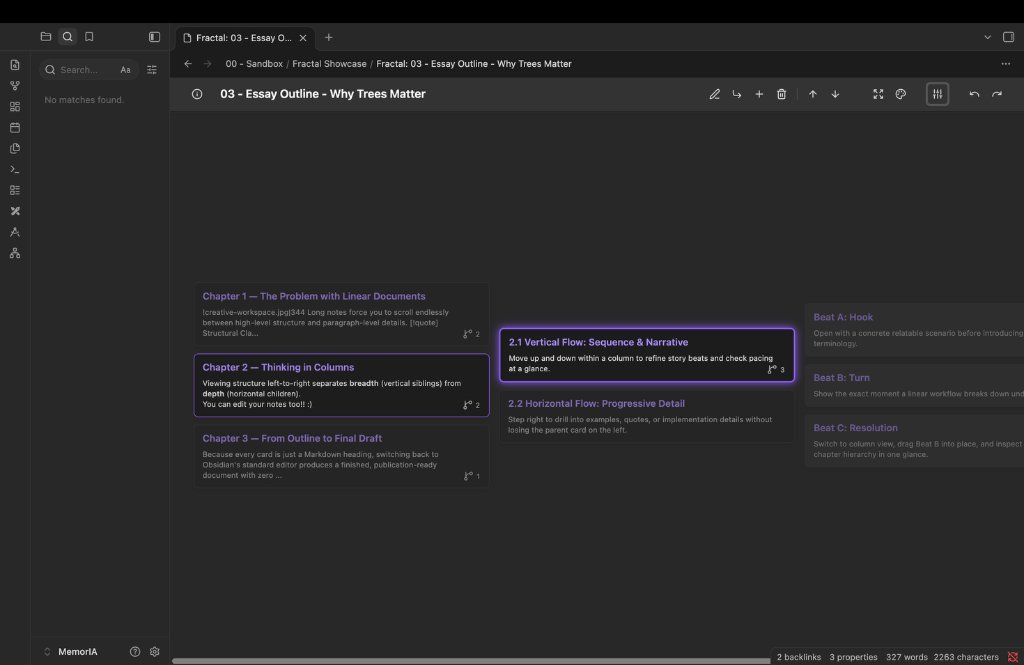
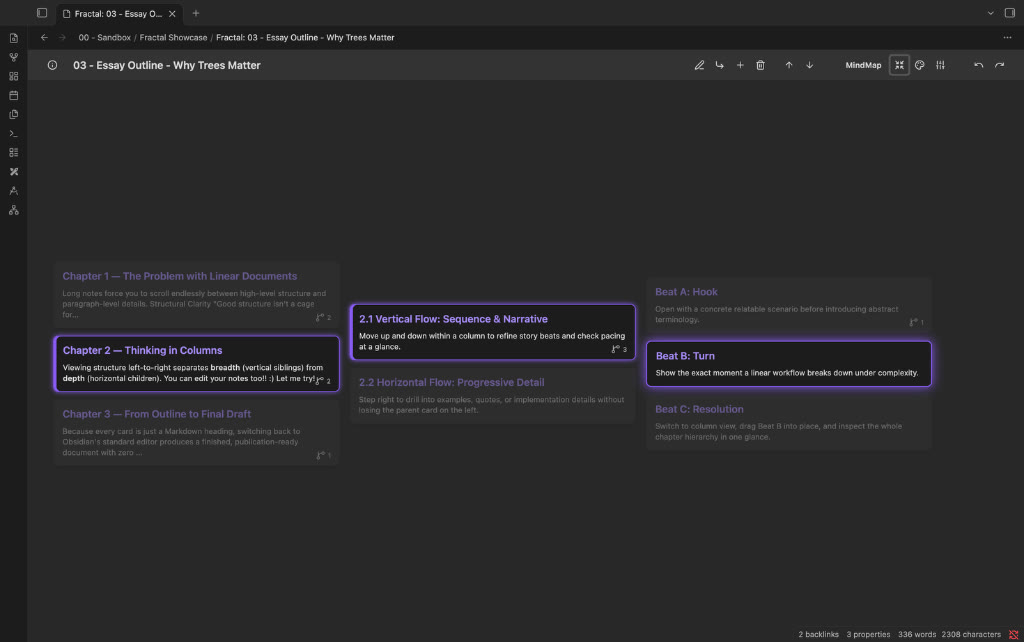
docs: curate README showcase gallery for Mind-Map, themes, and custom mode

diff --git a/README.md b/README.md
@@ -7,7 +7,7 @@
 
 **Fractal** lets you visualize and edit standard Markdown notes in a **column-based card tree layout** (inspired by Gingko) or a full **Mind-Map view**, mapped directly to your note's Markdown heading hierarchy (`#` through `######`) without modifying your underlying file format.
 
-![Fractal column tree navigation](https://raw.githubusercontent.com/ide-ale/obsidian-fractal/main/docs/media/fractal-columns-navigation.jpg)
+![Fractal column tree navigation in Obsidian Default theme](https://raw.githubusercontent.com/ide-ale/obsidian-fractal/main/docs/media/fractal-columns-navigation.jpg)
 
 ---
 
@@ -24,19 +24,29 @@ Long Markdown documents force you to choose between keeping high-level structure
 
 ## Visual Walkthrough
 
-### Column Navigation & Inline Card Editing
+### Mind-Map View (Full Heading Hierarchy & In-Place Reading)
 
-Browse branches left-to-right, expand active cards, edit directly in place with Obsidian's editor, and switch back to standard Markdown at any time with zero export or conversion.
+Switch to **MindMap** in the top toolbar to see your entire note outline at once (`Note Title Root` → `H1`–`H6`) connected by crisp orthogonal rounded lines with active-branch glow. Section bodies stay hidden for clarity and expand cleanly in place (`Enter` to read, `Enter` again to edit, `Esc` twice to collapse) without overlapping neighboring branches:
 
-![Fractal navigation and inline editing demo](https://raw.githubusercontent.com/ide-ale/obsidian-fractal/main/docs/media/fractal-demo-editing.gif)
+| Compact Overview (`H1`–`H6`) | Expanded Section (`Enter` to Read / Edit) |
+| :---: | :---: |
+| ![Fractal Mind-Map compact overview](https://raw.githubusercontent.com/ide-ale/obsidian-fractal/main/docs/media/fractal-mindmap-overview.jpg) | ![Fractal Mind-Map expanded reading with automatic reflow](https://raw.githubusercontent.com/ide-ale/obsidian-fractal/main/docs/media/fractal-mindmap-expanded.jpg) |
 
-### Rich Markdown Rendering & Layout Workflow
+### Native Obsidian Themes, Community Themes & Custom Palettes
 
-Active cards and illuminated ancestor paths render full Obsidian Markdown—including embedded vault images, callouts, tables, fenced code blocks, and internal links—while unselected sibling cards collapse into concise previews.
+Fractal automatically adapts its canvas, headings, cards, borders, and connectors to Obsidian's **Default theme** and any **third-party community theme** you install (shown below with **Wasp**), or lets you switch to **Custom** mode to pick your own colors for text, titles, canvas, cards, and active aura:
+
+| Community Theme Example (**Wasp**) | Custom Color Palette Mode |
+| :---: | :---: |
+| ![Fractal adapting to the Wasp Obsidian community theme](https://raw.githubusercontent.com/ide-ale/obsidian-fractal/main/docs/media/fractal-theme-wasp.jpg) | ![Fractal Custom color palette visualization](https://raw.githubusercontent.com/ide-ale/obsidian-fractal/main/docs/media/fractal-theme-custom.jpg) |
+
+### Navigation & Inline Card Editing in Action
+
+Browse branches left-to-right, expand active cards with rich Markdown (embedded vault images, callouts, tables, code blocks), and edit directly inside any card using Obsidian's editor:
 
 ![Fractal workflow and structure demo](https://raw.githubusercontent.com/ide-ale/obsidian-fractal/main/docs/media/fractal-demo-workflow.gif)
 
-![Fractal rich card with embedded image and callout](https://raw.githubusercontent.com/ide-ale/obsidian-fractal/main/docs/media/fractal-rich-card-preview.jpg)
+![Fractal navigation and inline editing demo](https://raw.githubusercontent.com/ide-ale/obsidian-fractal/main/docs/media/fractal-demo-editing.gif)
 
 ---
 
